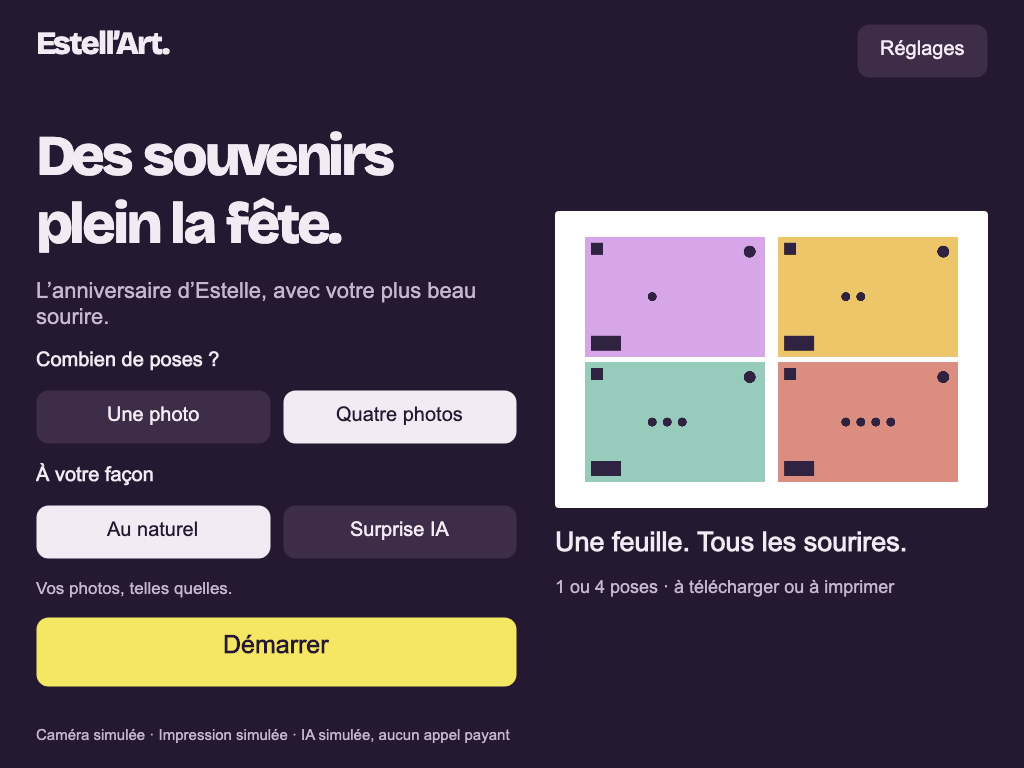
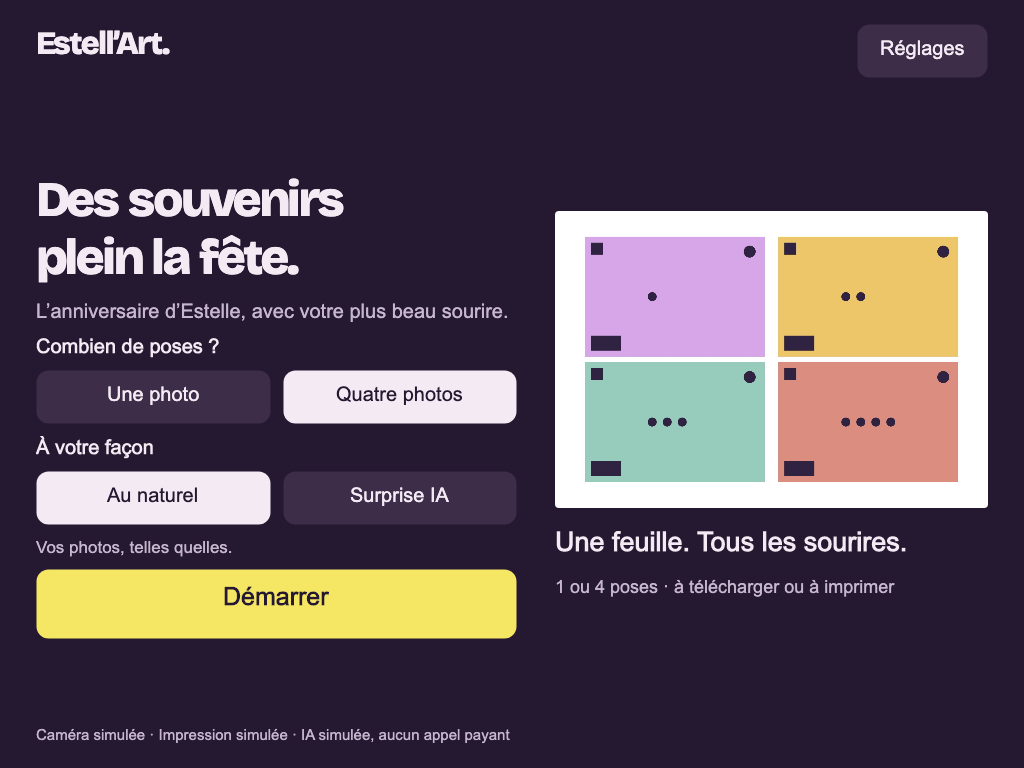
fix(ui): keep compact Windows actions visible and verify resizing (#7)

Changed region(s): [[0.0312, 0.1562, 0.5312, 0.9062]]

diff --git a/src/PhotoBooth.App/App.axaml.cs b/src/PhotoBooth.App/App.axaml.cs
@@ -19,32 +19,15 @@ public sealed partial class App : Application
         {
             desktop.MainWindow = new MainWindow();
             if(Program.SmokeOutput is { } directory)
-                desktop.MainWindow.Opened+=(_,_)=>DispatcherTimer.RunOnce(()=>
+                desktop.MainWindow.Opened+=(_,_)=>DispatcherTimer.RunOnce(async ()=>
                 {
                     try
                     {
                         var window=desktop.MainWindow;
-                        window.UpdateLayout();
-                        var logical=window.ClientSize;var scaling=window.RenderScaling;
-                        var size=new PixelSize((int)Math.Ceiling(logical.Width*scaling),(int)Math.Ceiling(logical.Height*scaling));
-                        if(logical.Width<900||logical.Height<650)throw new InvalidOperationException("Native window did not receive usable bounds.");
-                        var controls=window.GetVisualDescendants().OfType<Control>().Where(b=>b.Name is "Settings" or "StartSession" or "HomeSheet").Select(b=>
-                        {var position=b.TranslatePoint(new Point(0,0),window)??throw new InvalidOperationException("Missing control transform.");
-                            return new {b.Name,position.X,position.Y,b.Bounds.Width,b.Bounds.Height,right=position.X+b.Bounds.Width,bottom=position.Y+b.Bounds.Height};}).ToArray();
-                        var inside=controls.Length==3&&controls.All(c=>c.X>=0&&c.Y>=0&&c.right<=logical.Width+1&&c.bottom<=logical.Height+1);
-                        using var screenshot=new RenderTargetBitmap(size,new Vector(96*scaling,96*scaling));screenshot.Render(window);
-                        var path=Path.Combine(directory,"native-home.png");screenshot.Save(path,PngBitmapEncoderOptions.Default);
-                        File.WriteAllText(Path.Combine(directory,"native-ui.json"),JsonSerializer.Serialize(new
-                        {
-                            native_window_opened=true,size.Width,size.Height,scaling,logical_size=logical.ToString(),
-                            bounds=window.Bounds.ToString(),content_bounds=((Control)window.Content!).Bounds.ToString(),controls,controls_inside_client=inside,
-                            layout=window.GetVisualDescendants().OfType<Control>().Where(c=>c.Name is "AppLayout" or "Header" or "SessionBody" or "HomeLayout")
-                                .Select(c=>new {c.Name,bounds=c.Bounds.ToString(),desired=c.DesiredSize.ToString()}).ToArray(),
-                            os=System.Runtime.InteropServices.RuntimeInformation.OSDescription,
-                            image_sha256=SessionStore.Hash(File.ReadAllBytes(path)),
-                            paid_api_calls=0,hardware_access=false
-                        },SessionStore.JsonOptions));
-                        if(!inside)throw new InvalidOperationException("Primary controls extend outside the native client area.");
+                        CaptureNativeWindow(window,directory,"native-home.png","native-ui.json");
+                        window.Width=960;window.Height=700;
+                        await Task.Delay(500);
+                        CaptureNativeWindow(window,directory,"native-minimum.png","native-minimum-ui.json");
                         desktop.Shutdown(0);
                     }
                     catch(Exception exception)
@@ -52,5 +35,33 @@ public sealed partial class App : Application
                 },TimeSpan.FromSeconds(5));
         }
         base.OnFrameworkInitializationCompleted();
+    }
+
+    private static void CaptureNativeWindow(Window window,string directory,string imageName,string receiptName)
+    {
+        window.UpdateLayout();
+        var logical=window.ClientSize;var scaling=window.RenderScaling;
+        var size=new PixelSize((int)Math.Ceiling(logical.Width*scaling),(int)Math.Ceiling(logical.Height*scaling));
+        if(logical.Width<900||logical.Height<650)throw new InvalidOperationException("Native window did not receive usable bounds.");
+        var controls=window.GetVisualDescendants().OfType<Control>().Where(b=>b.Name is "Settings" or "StartSession" or "HomeSheet").Select(b=>
+        {var position=b.TranslatePoint(new Point(0,0),window)??throw new InvalidOperationException("Missing control transform.");
+            var viewport=b.GetVisualAncestors().OfType<Control>().First(c=>c.Name is "SessionBody" or "Header");
+            var origin=viewport.TranslatePoint(new Point(0,0),window)!.Value;
+            var insideViewport=position.X>=origin.X-1&&position.Y>=origin.Y-1&&position.X+b.Bounds.Width<=origin.X+viewport.Bounds.Width+1&&position.Y+b.Bounds.Height<=origin.Y+viewport.Bounds.Height+1;
+            return new {b.Name,position.X,position.Y,b.Bounds.Width,b.Bounds.Height,right=position.X+b.Bounds.Width,bottom=position.Y+b.Bounds.Height,inside_viewport=insideViewport};}).ToArray();
+        var inside=controls.Length==3&&controls.All(c=>c.inside_viewport&&c.X>=0&&c.Y>=0&&c.right<=logical.Width+1&&c.bottom<=logical.Height+1);
+        using var screenshot=new RenderTargetBitmap(size,new Vector(96*scaling,96*scaling));screenshot.Render(window);
+        var path=Path.Combine(directory,imageName);screenshot.Save(path,PngBitmapEncoderOptions.Default);
+        File.WriteAllText(Path.Combine(directory,receiptName),JsonSerializer.Serialize(new
+        {
+            native_window_opened=true,size.Width,size.Height,scaling,logical_size=logical.ToString(),
+            bounds=window.Bounds.ToString(),content_bounds=((Control)window.Content!).Bounds.ToString(),controls,controls_inside_client=inside,
+            layout=window.GetVisualDescendants().OfType<Control>().Where(c=>c.Name is "AppLayout" or "Header" or "SessionBody" or "HomeLayout")
+                .Select(c=>new {c.Name,bounds=c.Bounds.ToString(),desired=c.DesiredSize.ToString()}).ToArray(),
+            os=System.Runtime.InteropServices.RuntimeInformation.OSDescription,
+            image_sha256=SessionStore.Hash(File.ReadAllBytes(path)),
+            paid_api_calls=0,hardware_access=false
+        },SessionStore.JsonOptions));
+        if(!inside)throw new InvalidOperationException("Primary controls extend outside the native client area.");
     }
 }

diff --git a/src/PhotoBooth.App/MainWindow.cs b/src/PhotoBooth.App/MainWindow.cs
@@ -29,6 +29,7 @@ public sealed class MainWindow : Window
     private PhotoMode mode = PhotoMode.Original;
     private string[] fixtureFiles = [];
     private string screen = "home";
+    private bool compactHome;
     private Image? liveImage;
     private TextBlock? countdown;
     private Border? countdownBadge;
@@ -62,6 +63,7 @@ public sealed class MainWindow : Window
             Width = Math.Max(MinWidth, Math.Min(Width, display.WorkingArea.Width / display.Scaling - 32));
             Height = Math.Max(MinHeight, Math.Min(Height, display.WorkingArea.Height / display.Scaling - 48));
         }
+        compactHome = Width < 1100 || Height < 760;
         WindowStartupLocation = WindowStartupLocation.CenterScreen;
         var root = Environment.GetEnvironmentVariable("PHOTOBOOTH_DATA_DIR") ??
             Path.Combine(Environment.GetFolderPath(Environment.SpecialFolder.LocalApplicationData), "EstellArt");
@@ -93,6 +95,12 @@ public sealed class MainWindow : Window
         {
             layout.MaxWidth = Math.Max(0, ClientSize.Width - layout.Margin.Left - layout.Margin.Right);
             layout.MaxHeight = Math.Max(0, ClientSize.Height - layout.Margin.Top - layout.Margin.Bottom);
+            var compact = ClientSize.Width < 1100 || ClientSize.Height < 760;
+            if (compactHome != compact)
+            {
+                compactHome = compact;
+                if (screen == "home") RenderHome();
+            }
         }
         Opened += (_, _) => ConstrainLayout();
         Resized += (_, _) => ConstrainLayout();
@@ -140,9 +148,9 @@ public sealed class MainWindow : Window
         sharingCancellation?.Cancel(); sharingCancellation?.Dispose(); sharingCancellation = null;
         screen = "home"; liveImage = null; countdown = null; pulse.Stop();
         var grid = new Grid { Name = "HomeLayout", ColumnDefinitions = new ColumnDefinitions("6*,5*") };
-        var choices = new StackPanel { Spacing = 19, VerticalAlignment = VerticalAlignment.Center, Margin = new Thickness(0, 0, 38, 0) };
-        choices.Children.Add(Text("Des souvenirs\nplein la fête.", 57, FontWeight.SemiBold));
-        var subtitle = Text("L’anniversaire d’Estelle, avec votre plus beau sourire.", 22); subtitle.Foreground = Muted;
+        var choices = new StackPanel { Spacing = compactHome ? 12 : 19, VerticalAlignment = VerticalAlignment.Center, Margin = new Thickness(0, 0, 38, 0) };
+        choices.Children.Add(Text("Des souvenirs\nplein la fête.", compactHome ? 49 : 57, FontWeight.SemiBold));
+        var subtitle = Text("L’anniversaire d’Estelle, avec votre plus beau sourire.", compactHome ? 20 : 22); subtitle.Foreground = Muted;
         choices.Children.Add(subtitle);
         choices.Children.Add(Text("Combien de poses ?", 20, FontWeight.SemiBold));
         choices.Children.Add(ChoiceRow(("Une photo", photoCount == 1, () => { photoCount = 1; RenderHome(); }),

diff --git a/DESIGN.md b/DESIGN.md
@@ -16,6 +16,10 @@ typography:
     fontFamily: "Bricolage Grotesque"
     fontSize: "57px"
     fontWeight: 600
+  display-compact:
+    fontFamily: "Bricolage Grotesque"
+    fontSize: "49px"
+    fontWeight: 600
   headline:
     fontFamily: "Bricolage Grotesque"
     fontSize: "38px"
@@ -51,6 +55,7 @@ rounded:
 spacing:
   compact: "12px"
   control-group: "18px"
+  home-standard: "19px"
   section: "20px"
   content: "22px"
   window-vertical: "24px"
@@ -105,7 +110,7 @@ components:
 
 This system records the implemented Avalonia desktop interface, targeting Windows with native local states rehearsed on macOS. The name and direction are working choices under the delegated delivery brief; an unanswered preference is not approval. Code-led preparation for this delivery is not a confirmed standing workflow preference. No web, iOS, or Android design is asserted here.
 
-Source authority is `src/PhotoBooth.App/App.axaml` and `src/PhotoBooth.App/MainWindow.cs`, with capture timing in `src/PhotoBooth.Core/Session.cs` and `src/PhotoBooth.Runtime/BoothController.cs`. The latest targeted finish review accepted the permanent field labels, accurate cloud-disable confirmation, and native local dialog/result states. The result at 1024 × 768 and the visible unlock error were reviewed. Connected QR sharing, physical printing, Canon/Windows operation, and the prepared but undeployed web gallery are not visually validated journeys.
+Source authority is `src/PhotoBooth.App/App.axaml` and `src/PhotoBooth.App/MainWindow.cs`, with capture timing in `src/PhotoBooth.Core/Session.cs` and `src/PhotoBooth.Runtime/BoothController.cs`. The latest targeted finish review accepted the permanent field labels, accurate cloud-disable confirmation, and native local dialog/result states. The result at 1024 × 768 and the visible unlock error were reviewed. Connected QR sharing, physical printing, Canon/Windows operation, and the prepared but undeployed web gallery are not visually validated journeys. A Windows native rehearsal subsequently exposed window overflow missed by headless checks. The startup/work-area, compact-home, and client/panel-bound corrections are implemented; final Windows native validation remains pending. Estell’Art’s name and palette are unchanged.
 
 **Key Characteristics:**
 
@@ -147,7 +152,7 @@ The sidecar’s eight-step color ramps are synthesized documentation aids. The a
 
 ### Hierarchy
 
-- **Display:** the home headline uses the `display` token.
+- **Display:** the home headline uses `display`, switching to `display-compact` under the home-only compact condition described in Layout. The subtitle changes from 22 to 20 logical units.
 - **Headline:** the result title uses `headline`; the error heading is a larger local variation (48 logical units).
 - **Title:** capture and result instructions use `title`; dialog headings vary locally (28 or 34 logical units).
 - **Brand:** the persistent wordmark uses `brand`.
@@ -163,11 +168,13 @@ The recorded weights are the `FontWeight` requests in the application. The bundl
 
 All source measurements are Avalonia logical units. The frontmatter uses `px` for portable token notation, not a claim about physical display pixels.
 
-The centered desktop window starts at 1280 × 800 and has a minimum of 960 × 700. The application frame has horizontal and vertical margins given by `window-horizontal` and `window-vertical`. A header, flexible main region, and wrapped footer form three rows; header separation is 24 and the footer’s top margin is 20.
+The centered desktop window requests up to 1280 × 800, with a minimum of 960 × 700. When a primary display is available, startup width and height are capped to its working area divided by display scaling, less 32 horizontal and 48 vertical logical units, while retaining that minimum. The application frame has horizontal and vertical margins given by `window-horizontal` and `window-vertical`. A header, flexible main region, and wrapped footer form three rows; header separation is 24 and the footer’s top margin is 20.
 
-The home surface uses proportional columns (6:5), a 38-unit separation on the choice column, and 19-unit vertical gaps in that column. Options are equal-width native buttons with a combined gap of 12. The result uses columns (7:4), a 30-unit separation, and 22/20-unit vertical grouping. The capture screen uses a flexible image stage between its title and action row, with 20-unit vertical stage margins. Photo previews scale uniformly, with maximum heights of 380 on the home surface and 430 on the result.
+On opening and resizing, the root layout’s maximum width and height are recomputed from the actual client size minus those margins. Bounds checks require `Settings`, `StartSession`, and `HomeSheet` to remain inside both the client area and their containing `Header` or `SessionBody` panel. A first native capture showed “Démarrer” clipped by its panel even though a window-only check was insufficient. The native smoke also resizes to 960 × 700. Final Windows validation of these corrections remains pending.
 
-The result action column now sits in a native ScrollViewer. The reviewed local result at 1024 × 768 retains a readable sheet, print confirmation, sharing-disabled status, and new-session action without clipping. There is still no breakpoint, compact spacing token, or automatic single-column layout: proportional columns, text wrapping, and scrolling supply the resizing behavior.
+The home surface uses proportional columns (6:5), a 38-unit separation on the choice column, and `home-standard` vertical gaps in that column. Compact home is active when client width is strictly below 1100 OR client height is strictly below 760 logical units, reevaluated on opening and resizing. It uses the 49-unit headline instead of 57, a 20-unit subtitle instead of 22, and `compact` gaps of 12 instead of 19. Secondary and primary button minimum heights stay 54 and 70. Options remain equal-width native buttons with a combined gap of 12. The result uses columns (7:4), a 30-unit separation, and 22/20-unit vertical grouping. The capture screen uses a flexible image stage between its title and action row, with 20-unit vertical stage margins. Photo previews scale uniformly, with maximum heights of 380 on the home surface and 430 on the result.
+
+The result action column now sits in a native ScrollViewer. The reviewed local result at 1024 × 768 retains a readable sheet, print confirmation, sharing-disabled status, and new-session action without clipping. The compact adjustment applies only to the home surface. Other surfaces retain proportional columns, text wrapping, and scrolling; no automatic single-column layout is implemented.
 
 ## Elevation & Depth
 
@@ -243,7 +250,7 @@ No connected QR is present in the reviewed local captures, so its appearance and
 - **Do** use the exact composed image for the result preview and keep photographic content proportionate with uniform scaling.
 - **Do** keep camera, printing, and cloud status explicit and distinguish local calibration images from real guest photography.
 - **Do** preserve the brief, single capture cue and the readable badge over the framing image.
-- **Do** check the actual desktop window sizes when changing copy, spacing, or controls; there is no implemented breakpoint system.
+- **Do** check actual desktop sizes and containing-panel bounds when changing copy, spacing, or controls, including both sides of the home compact thresholds and 960 × 700.
 
 ### Don't:
 
@@ -251,4 +258,4 @@ No connected QR is present in the reviewed local captures, so its appearance and
 - **Don't** turn the capture cue into a repeating strobe or an opaque frame that hides the photograph.
 - **Don't** describe calibration geometry or rehearsal filters as personal photos or generated AI artwork.
 - **Don't** treat the HTML documentation specimens as a web product or as exact reproductions of platform-owned Fluent control states.
-- **Don't** infer a validated connected QR or web-gallery journey, an approved permanent workflow, a phone layout, a compact breakpoint, or a reduced-motion variant from this delivery.
+- **Don't** infer a validated connected QR or web-gallery journey, an approved permanent workflow, a phone layout, compact rules beyond the documented home condition, or a reduced-motion variant from this delivery.
